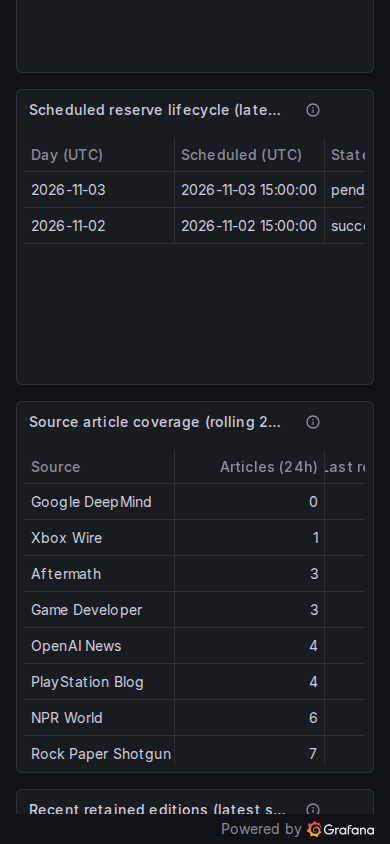
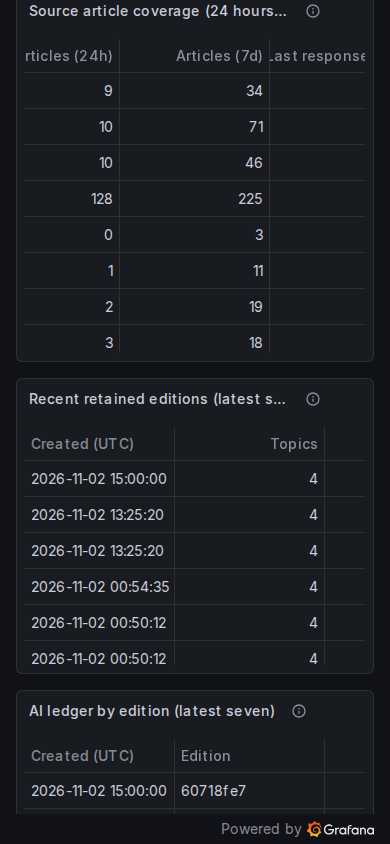
Show topic and seven-day source coverage in Product dashboard

diff --git a/scripts/lib/check-grafana.ts b/scripts/lib/check-grafana.ts
@@ -283,6 +283,7 @@ export async function checkGrafana() {
       if (dashboard.uid === 'nd-product') {
         for (const name of [
           'Articles (24h)',
+          'Articles (7d)',
           'AI story topics',
           'Charged ($)',
         ]) {
@@ -338,7 +339,7 @@ export async function checkGrafana() {
       if (
         await page
           .getByRole('heading', {
-            name: 'Source article coverage (rolling 24 hours)',
+            name: 'Source article coverage (24 hours and 7 days)',
             exact: true,
           })
           .count()
@@ -349,10 +350,19 @@ export async function checkGrafana() {
     }
     await page
       .getByRole('heading', {
-        name: 'Source article coverage (rolling 24 hours)',
+        name: 'Source article coverage (24 hours and 7 days)',
         exact: true,
       })
       .scrollIntoViewIfNeeded();
+    await page
+      .getByRole('columnheader', { name: 'Articles (7d)', exact: true })
+      .scrollIntoViewIfNeeded();
+    await page
+      .getByRole('heading', {
+        name: 'Source article coverage (24 hours and 7 days)',
+        exact: true,
+      })
+      .evaluate((node) => node.scrollIntoView({ block: 'start' }));
     await page.waitForTimeout(1500);
     await page.screenshot({
       path: 'docs/screenshots/grafana-product-coverage-mobile.png',

diff --git a/PROGRESS.md b/PROGRESS.md
@@ -1,17 +1,8 @@
 # Progress
 
-Archived: [iteration 363](docs/progress-archive/2026-11-03-iteration-363.md), [iteration 362](docs/progress-archive/2026-11-03-iteration-362.md), [iteration 361](docs/progress-archive/2026-11-03-iteration-361.md), [iteration 360](docs/progress-archive/2026-11-03-iteration-360.md), [iteration 359](docs/progress-archive/2026-11-03-iteration-359.md), [iteration 357](docs/progress-archive/2026-11-03-iteration-357.md), [iteration 356](docs/progress-archive/2026-11-03-iteration-356.md), [iteration 355](docs/progress-archive/2026-11-03-iteration-355.md), [iteration 354](docs/progress-archive/2026-11-03-iteration-354.md), [iteration 353](docs/progress-archive/2026-11-03-iteration-353.md), [iteration 352](docs/progress-archive/2026-11-03-iteration-352.md), [iteration 351](docs/progress-archive/2026-11-03-iteration-351.md), [iteration 350](docs/progress-archive/2026-11-03-iteration-350.md), [iteration 349](docs/progress-archive/2026-11-03-iteration-349.md), [iteration 348](docs/progress-archive/2026-11-03-iteration-348.md), [iteration 347](docs/progress-archive/2026-11-03-iteration-347.md), [iteration 346](docs/progress-archive/2026-11-03-iteration-346.md), [iteration 345](docs/progress-archive/2026-11-03-iteration-345.md), [iteration 344](docs/progress-archive/2026-11-03-iteration-344.md), [iteration 343](docs/progress-archive/2026-11-03-iteration-343.md), [iteration 342](docs/progress-archive/2026-11-03-iteration-342.md), [iteration 341](docs/progress-archive/2026-11-03-iteration-341.md), [iteration 340](docs/progress-archive/2026-11-03-iteration-340.md), [iteration 338](docs/progress-archive/2026-11-03-iteration-338.md), [iteration 337](docs/progress-archive/2026-11-03-iteration-337.md), [iteration 336](docs/progress-archive/2026-11-03-iteration-336.md), [iteration 335](docs/progress-archive/2026-11-03-iteration-335.md), [iteration 334](docs/progress-archive/2026-11-03-iteration-334.md), [iteration 332](docs/progress-archive/2026-11-03-iteration-332.md), [iteration 331](docs/progress-archive/2026-11-03-iteration-331.md), [iteration 330](docs/progress-archive/2026-11-03-iteration-330.md), [iteration 329](docs/progress-archive/2026-11-03-iteration-329.md), [iteration 328](docs/progress-archive/2026-11-03-iteration-328.md), [iteration 327](docs/progress-archive/2026-11-03-iteration-327.md), [iteration 326](docs/progress-archive/2026-11-03-iteration-326.md), [iteration 325](docs/progress-archive/2026-11-03-iteration-325.md), [iteration 324](docs/progress-archive/2026-11-03-iteration-324.md), [iteration 321](docs/progress-archive/2026-11-03-iteration-321.md), [iteration 320](docs/progress-archive/2026-11-03-iteration-320.md), [iteration 319](docs/progress-archive/2026-11-03-iteration-319.md), [iterations 317–318](docs/progress-archive/2026-11-03-iterations-317-318.md), [iterations 315–316](docs/progress-archive/2026-11-03-iterations-315-316.md), [iterations 313–314](docs/progress-archive/2026-11-03-iterations-313-314.md), [iterations 311–312](docs/progress-archive/2026-11-03-iterations-311-312.md), [iterations 309–310](docs/progress-archive/2026-11-03-iterations-309-310.md), [iterations 307–308](docs/progress-archive/2026-11-03-iterations-307-308.md), [iterations 305–306](docs/progress-archive/2026-11-03-iterations-305-306.md), [iterations 303–304](docs/progress-archive/2026-11-03-iterations-303-304.md), [iteration 302](docs/progress-archive/2026-11-03-iteration-302.md), [iteration 301](docs/progress-archive/2026-11-03-iteration-301.md), [iteration 300](docs/progress-archive/2026-11-03-iteration-300.md), [iteration 299](docs/progress-archive/2026-11-03-iteration-299.md), [iteration 298](docs/progress-archive/2026-11-03-iteration-298.md), [iteration 297](docs/progress-archive/2026-11-03-iteration-297.md), [iteration 296](docs/progress-archive/2026-11-03-iteration-296.md), [iteration 295](docs/progress-archive/2026-11-03-iteration-295.md), [iteration 294](docs/progress-archive/2026-11-03-iteration-294.md), [iteration 293](docs/progress-archive/2026-11-03-iteration-293.md), [iteration 292](docs/progress-archive/2026-11-03-iteration-292.md), [iteration 291](docs/progress-archive/2026-11-03-iteration-291.md), [iteration 290](docs/progress-archive/2026-11-03-iteration-290.md), [iteration 288](docs/progress-archive/2026-11-03-iteration-288.md), [iteration 285](docs/progress-archive/2026-11-03-iteration-285.md), [286](docs/progress-archive/2026-11-03-iteration-286.md).
+Archived: [iteration 364](docs/progress-archive/2026-11-03-iteration-364.md), [iteration 363](docs/progress-archive/2026-11-03-iteration-363.md), [iteration 362](docs/progress-archive/2026-11-03-iteration-362.md), [iteration 361](docs/progress-archive/2026-11-03-iteration-361.md), [iteration 360](docs/progress-archive/2026-11-03-iteration-360.md), [iteration 359](docs/progress-archive/2026-11-03-iteration-359.md), [iteration 357](docs/progress-archive/2026-11-03-iteration-357.md), [iteration 356](docs/progress-archive/2026-11-03-iteration-356.md), [iteration 355](docs/progress-archive/2026-11-03-iteration-355.md), [iteration 354](docs/progress-archive/2026-11-03-iteration-354.md), [iteration 353](docs/progress-archive/2026-11-03-iteration-353.md), [iteration 352](docs/progress-archive/2026-11-03-iteration-352.md), [iteration 351](docs/progress-archive/2026-11-03-iteration-351.md), [iteration 350](docs/progress-archive/2026-11-03-iteration-350.md), [iteration 349](docs/progress-archive/2026-11-03-iteration-349.md), [iteration 348](docs/progress-archive/2026-11-03-iteration-348.md), [iteration 347](docs/progress-archive/2026-11-03-iteration-347.md), [iteration 346](docs/progress-archive/2026-11-03-iteration-346.md), [iteration 345](docs/progress-archive/2026-11-03-iteration-345.md), [iteration 344](docs/progress-archive/2026-11-03-iteration-344.md), [iteration 343](docs/progress-archive/2026-11-03-iteration-343.md), [iteration 342](docs/progress-archive/2026-11-03-iteration-342.md), [iteration 341](docs/progress-archive/2026-11-03-iteration-341.md), [iteration 340](docs/progress-archive/2026-11-03-iteration-340.md), [iteration 338](docs/progress-archive/2026-11-03-iteration-338.md), [iteration 337](docs/progress-archive/2026-11-03-iteration-337.md), [iteration 336](docs/progress-archive/2026-11-03-iteration-336.md), [iteration 335](docs/progress-archive/2026-11-03-iteration-335.md), [iteration 334](docs/progress-archive/2026-11-03-iteration-334.md), [iteration 332](docs/progress-archive/2026-11-03-iteration-332.md), [iteration 331](docs/progress-archive/2026-11-03-iteration-331.md), [iteration 330](docs/progress-archive/2026-11-03-iteration-330.md), [iteration 329](docs/progress-archive/2026-11-03-iteration-329.md), [iteration 328](docs/progress-archive/2026-11-03-iteration-328.md), [iteration 327](docs/progress-archive/2026-11-03-iteration-327.md), [iteration 326](docs/progress-archive/2026-11-03-iteration-326.md), [iteration 325](docs/progress-archive/2026-11-03-iteration-325.md), [iteration 324](docs/progress-archive/2026-11-03-iteration-324.md), [iteration 321](docs/progress-archive/2026-11-03-iteration-321.md), [iteration 320](docs/progress-archive/2026-11-03-iteration-320.md), [iteration 319](docs/progress-archive/2026-11-03-iteration-319.md), [iterations 317–318](docs/progress-archive/2026-11-03-iterations-317-318.md), [iterations 315–316](docs/progress-archive/2026-11-03-iterations-315-316.md), [iterations 313–314](docs/progress-archive/2026-11-03-iterations-313-314.md), [iterations 311–312](docs/progress-archive/2026-11-03-iterations-311-312.md), [iterations 309–310](docs/progress-archive/2026-11-03-iterations-309-310.md), [iterations 307–308](docs/progress-archive/2026-11-03-iterations-307-308.md), [iterations 305–306](docs/progress-archive/2026-11-03-iterations-305-306.md), [iterations 303–304](docs/progress-archive/2026-11-03-iterations-303-304.md), [iteration 302](docs/progress-archive/2026-11-03-iteration-302.md), [iteration 301](docs/progress-archive/2026-11-03-iteration-301.md), [iteration 300](docs/progress-archive/2026-11-03-iteration-300.md), [iteration 299](docs/progress-archive/2026-11-03-iteration-299.md), [iteration 298](docs/progress-archive/2026-11-03-iteration-298.md), [iteration 297](docs/progress-archive/2026-11-03-iteration-297.md), [iteration 296](docs/progress-archive/2026-11-03-iteration-296.md), [iteration 295](docs/progress-archive/2026-11-03-iteration-295.md), [iteration 294](docs/progress-archive/2026-11-03-iteration-294.md), [iteration 293](docs/progress-archive/2026-11-03-iteration-293.md), [iteration 292](docs/progress-archive/2026-11-03-iteration-292.md), [iteration 291](docs/progress-archive/2026-11-03-iteration-291.md), [iteration 290](docs/progress-archive/2026-11-03-iteration-290.md), [iteration 288](docs/progress-archive/2026-11-03-iteration-288.md), [iteration 285](docs/progress-archive/2026-11-03-iteration-285.md), [286](docs/progress-archive/2026-11-03-iteration-286.md).
 
 Earlier entries: [iterations 269–270](docs/progress-archive/2026-11-03-iterations-269-270.md), [271–272](docs/progress-archive/2026-11-03-iterations-271-272.md), [273–274](docs/progress-archive/2026-11-03-iterations-273-274.md), [275–276](docs/progress-archive/2026-11-03-iterations-275-276.md), [277–278](docs/progress-archive/2026-11-03-iterations-277-278.md), [279–280](docs/progress-archive/2026-11-03-iterations-279-280.md), [282](docs/progress-archive/2026-11-03-iteration-282.md), [283](docs/progress-archive/2026-11-03-iteration-283.md), [284](docs/progress-archive/2026-11-03-iteration-284.md).
-
-## 2026-11-03: iteration 364 — private queue snapshots
-
-- Started clean on main; no leftover work. Four app units/health green, no current source errors or failed digest jobs. Two retained ingestion failures have recovered sources; Nov 3 evidence remains pending.
-- Completed O5: API scrape-time gauges expose retained jobs by six states, recurring scheduler counts and pause state for four fixed queues using existing connections. No payloads/IDs or queue mutations. Independent snapshots may differ while jobs move; failed Redis reads fail the scrape rather than return stale values.
-- Added offline retained-state, privacy, failure and recovery coverage; checker verifies registry and stored samples. Updated handbook/plan/TASKS; archived iteration 352. No UI/diagram change.
-- Verification: focused queue test 1/1; `pnpm format`, `pnpm lint:fix`, `pnpm check` (232 unit/172 integration), `pnpm build`, handbook 09 and `git diff --check` passed. Runtime `--verify-queue-metrics --verify-o4` passed after fresh post-restart scrape/health samples arrived; all six targets healthy.
-- Restarted API only for changed code; worker/docs/schema/DB/Redis unchanged. Health green, retained real edition four topics/20 stories/10 posts. Observability daemons ~217 MiB RAM/~0.7% startup-average CPU combined; metrics ~31 MiB allocated.
-- No paid calls, Reddit requests or production content/spending-setting changes. Next: scheduled evidence/acks first; otherwise O6 dashboards. Production activation stays gated.
 
 ## 2026-11-03: iteration 365 — initial Grafana dashboards
 
@@ -111,4 +102,13 @@ Earlier entries: [iterations 269–270](docs/progress-archive/2026-11-03-iterati
 - Verified query arithmetic against existing real ingestion metrics; no edition or provider calls triggered. Updated handbook/plan/TASKS and archived iteration 363.
 - Verification: `pnpm format`, `pnpm lint:fix`, `pnpm check` (232 unit/172 integration, exit 0), `pnpm build`, handbook 09 and `git diff --check` passed. `check-observability.ts --verify-grafana --verify-o4`: 61 valid queries/56 populated, seven healthy targets. Desktop/mobile screenshots inspected and capture alignment corrected.
 - Dashboard hot-reloaded; no running service code/config restart needed. Retained real edition has four topics, 20 stories/10 posts. No paid calls, Reddit requests or production content/spending-setting changes.
+- Next: scheduled evidence/acks first; otherwise remaining O6 Agent/Product caps or O7 Postgres collection. Production activation stays gated.
+
+## 2026-11-03: iteration 376 — source coverage context
+
+- Started clean on main; no leftover work. Four app services/health green, 32 sources without current errors and no failed digest runs. Nov 3 15:00 UTC evidence remains pending; two retained ingestion failures have recovered sources.
+- Product source coverage now shows topic (or shared/all topics), rolling 24-hour and inclusive seven-day publication counts. Preserves zero-count/disabled sources and deduplication; no new grants, collectors or production behavior changes. Updated handbook/plan/TASKS; archived iteration 364.
+- Verification: `pnpm format`, `pnpm lint:fix`, `pnpm check` (232 unit/172 integration, exit 0), `pnpm build`, handbook 09 and `git diff --check` passed. Restricted-role query returned all 32 sources, 25 shared, one quiet in 24 hours, no seven-day/24-hour count inversions.
+- `check-observability.ts --verify-grafana --verify-o4`: 61 valid queries/56 populated, seven healthy targets. Desktop/mobile screenshots inspected; mobile capture aligned to new count columns. Discarded unrelated regenerated captures.
+- Dashboard copied to provisioned directory and hot-reloaded; no service code/config restart needed. Latest retained real edition remains four topics, 20 stories/10 posts. No paid calls, Reddit requests or production content/spending-setting changes.
 - Next: scheduled evidence/acks first; otherwise remaining O6 Agent/Product caps or O7 Postgres collection. Production activation stays gated.

diff --git a/TASKS.md b/TASKS.md
@@ -70,4 +70,4 @@ M0–M2; M3/M6/M7 foundations implemented.
 - [ ] STEERING 2a (lower priority): finish repository/HTTP characterization before ORM. Isolated DB/Redis, migrations, HTTP/worker and synthetic-AI goldens implemented (183–270); gaps: [database verification](docs/DATABASE-VERIFICATION.md). No live DB; finish 2a before ORM. Recorded-response golden open.
 - [ ] STEERING 2b (only after 2a is green): record Drizzle decision/schema parity, back up live DB, gradually replace raw SQL behind ports and enforce boundaries.
 
-- [ ] STEERING 24 (background): [observability plan](docs/observability-plan.md), only while product work is blocked. O1–O5 verified (354–364): private runtime, HTTP, external-call, job-attempt and queue-state/schedule metrics scraped. O6 advanced (365–373): private Grafana Host/Services/HTTP/Jobs, Errors/logs and read-only Product/Database dashboards, source coverage, edition history, attributed AI costs/holds and app runtime memory/heap/descriptors/GC/CPU/active work/event-loop delay; Redis shipped (374); Product worker attempt timing/counts shipped (375). Agent, Database top queries (O7) and Product caps/individual run timing remain. Scheduled evidence/acks take priority; preserve caps and run protection.
+- [ ] STEERING 24 (background): [observability plan](docs/observability-plan.md), only while product work is blocked. O1–O5 verified (354–364): private runtime, HTTP, external-call, job-attempt and queue-state/schedule metrics scraped. O6 advanced (365–373): private Grafana Host/Services/HTTP/Jobs, Errors/logs and read-only Product/Database dashboards, source coverage, edition history, attributed AI costs/holds and app runtime memory/heap/descriptors/GC/CPU/active work/event-loop delay; Redis shipped (374); Product worker attempt timing/counts shipped (375); source coverage adds topic/seven-day context (376). Agent, Database top queries (O7) and Product caps/individual run timing remain. Scheduled evidence/acks take priority; preserve caps and run protection.

diff --git a/docs/progress-archive/2026-11-03-iteration-364.md b/docs/progress-archive/2026-11-03-iteration-364.md
@@ -1,0 +1,10 @@
+# Progress archive
+
+## 2026-11-03: iteration 364 — private queue snapshots
+
+- Started clean on main; no leftover work. Four app units/health green, no current source errors or failed digest jobs. Two retained ingestion failures have recovered sources; Nov 3 evidence remains pending.
+- Completed O5: API scrape-time gauges expose retained jobs by six states, recurring scheduler counts and pause state for four fixed queues using existing connections. No payloads/IDs or queue mutations. Independent snapshots may differ while jobs move; failed Redis reads fail the scrape rather than return stale values.
+- Added offline retained-state, privacy, failure and recovery coverage; checker verifies registry and stored samples. Updated handbook/plan/TASKS; archived iteration 352. No UI/diagram change.
+- Verification: focused queue test 1/1; `pnpm format`, `pnpm lint:fix`, `pnpm check` (232 unit/172 integration), `pnpm build`, handbook 09 and `git diff --check` passed. Runtime `--verify-queue-metrics --verify-o4` passed after fresh post-restart scrape/health samples arrived; all six targets healthy.
+- Restarted API only for changed code; worker/docs/schema/DB/Redis unchanged. Health green, retained real edition four topics/20 stories/10 posts. Observability daemons ~217 MiB RAM/~0.7% startup-average CPU combined; metrics ~31 MiB allocated.
+- No paid calls, Reddit requests or production content/spending-setting changes. Next: scheduled evidence/acks first; otherwise O6 dashboards. Production activation stays gated.

diff --git a/docs/handbook/01-app/09-observability.md b/docs/handbook/01-app/09-observability.md
@@ -251,11 +251,12 @@ retained structured events; it does not collect browser errors.
 Product reads retained Postgres data every five minutes: settled UTC day/month
 spend and all outstanding holds, latest edition story/post modes, source freshness,
 rolling 24-hour distinct articles and X citation verification, seven reserve
-lifecycle rows, per-source 24-hour article coverage (including zero counts), and the
+lifecycle rows, per-source 24-hour and seven-day article coverage grouped by topic (including zero counts), and the
 latest seven retained edition snapshots with story/post totals and AI topic counts.
 A separate table matches Anthropic ledger calls to those edition IDs, showing charges
 and unresolved holds. Zero calls may mean cached or fallback work. It excludes X
 discovery and unpublished attempts, so it is not total scheduled-run spend.
+Seven-day article counts include the last 24 hours and use publication time, not discovery time.
 Source response counts include duplicates and older items; they are not new-item yield.
 Edition creation time is not worker duration. These table windows are explicit and ignore the Grafana time picker.
 AI mode can use cached work; verified citations are not incremental discovery yield.

diff --git a/docs/observability-plan.md b/docs/observability-plan.md
@@ -203,6 +203,8 @@ only when its check passes.
     No samples before observed attempts; cached/fallback/reused work and retries are
     included, queue wait excluded. Individual run timing and caps remain in app Status.
 
+  - Iteration 376: Product source coverage adds topic names and inclusive rolling seven-day counts alongside 24-hour counts, including quiet sources. Uses existing reader grants; no collection or production changes.
+
 - [ ] **O7 Database and Redis.**
   - Iteration 374: Redis collector and O6 Redis dashboard shipped. Pinned/checksummed redis_exporter v1.96.0, loopback INFO-only, 30-second scraping, 32 MB/2% CPU ceiling; no key scanning, app or Redis restart. Eight panels and desktop/mobile checked. Postgres exporter/top queries remain open.
   - **Scope:** postgres_exporter, `pg_stat_statements`, slow-query log and
